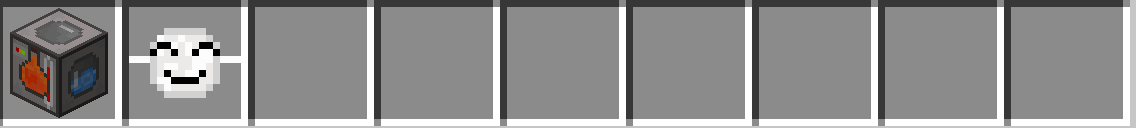
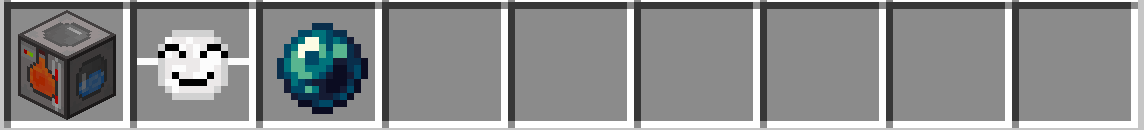
1.0-beta6

Changed region(s): [[0.0, 0.0, 1.0, 1.0]]

diff --git a/src/main/java/partea/partea_expansion/CustomItems/AncientPearl.java b/src/main/java/partea/partea_expansion/CustomItems/AncientPearl.java
@@ -1,0 +1,71 @@
+package partea.partea_expansion.CustomItems;
+
+import net.minecraft.advancement.criterion.Criteria;
+import net.minecraft.block.Blocks;
+import net.minecraft.entity.EyeOfEnderEntity;
+import net.minecraft.entity.player.PlayerEntity;
+import net.minecraft.item.EnderEyeItem;
+import net.minecraft.item.ItemStack;
+import net.minecraft.registry.RegistryKeys;
+import net.minecraft.registry.tag.TagKey;
+import net.minecraft.server.network.ServerPlayerEntity;
+import net.minecraft.server.world.ServerWorld;
+import net.minecraft.sound.SoundCategory;
+import net.minecraft.sound.SoundEvents;
+import net.minecraft.stat.Stats;
+import net.minecraft.util.Hand;
+import net.minecraft.util.Identifier;
+import net.minecraft.util.TypedActionResult;
+import net.minecraft.util.hit.BlockHitResult;
+import net.minecraft.util.hit.HitResult;
+import net.minecraft.util.math.BlockPos;
+import net.minecraft.world.RaycastContext;
+import net.minecraft.world.World;
+import net.minecraft.world.event.GameEvent;
+import net.minecraft.world.gen.structure.Structure;
+
+public class AncientPearl extends EnderEyeItem {
+    private static TagKey<Structure> of() {
+        return TagKey.of(RegistryKeys.STRUCTURE, new Identifier("ancient_city"));
+    }
+    TagKey<Structure> ANCIENT_CITY = of();
+    public AncientPearl(Settings settings) {
+        super(settings);
+    }
+
+    public TypedActionResult<ItemStack> use(World world, PlayerEntity user, Hand hand) {
+        ItemStack itemStack = user.getStackInHand(hand);
+        BlockHitResult blockHitResult = raycast(world, user, RaycastContext.FluidHandling.NONE);
+        if (blockHitResult.getType() == HitResult.Type.BLOCK && world.getBlockState(blockHitResult.getBlockPos()).isOf(Blocks.REINFORCED_DEEPSLATE)) {
+            return TypedActionResult.pass(itemStack);
+        } else {
+            user.setCurrentHand(hand);
+            if (world instanceof ServerWorld) {
+                ServerWorld serverWorld = (ServerWorld)world;
+                BlockPos blockPos = serverWorld.locateStructure(ANCIENT_CITY, user.getBlockPos(), 100, false);
+                if (blockPos != null) {
+                    EyeOfEnderEntity eyeOfEnderEntity = new EyeOfEnderEntity(world, user.getX(), user.getBodyY(0.5), user.getZ());
+                    eyeOfEnderEntity.setItem(itemStack);
+                    eyeOfEnderEntity.initTargetPos(blockPos);
+                    world.emitGameEvent(GameEvent.PROJECTILE_SHOOT, eyeOfEnderEntity.getPos(), GameEvent.Emitter.of(user));
+                    world.spawnEntity(eyeOfEnderEntity);
+                    if (user instanceof ServerPlayerEntity) {
+                        Criteria.USED_ENDER_EYE.trigger((ServerPlayerEntity)user, blockPos);
+                    }
+
+                    world.playSound((PlayerEntity)null, user.getX(), user.getY(), user.getZ(), SoundEvents.ENTITY_ENDER_EYE_LAUNCH, SoundCategory.NEUTRAL, 0.5F, 0.4F / (world.getRandom().nextFloat() * 0.4F + 0.8F));
+                    world.syncWorldEvent((PlayerEntity)null, 1003, user.getBlockPos(), 0);
+                    if (!user.getAbilities().creativeMode) {
+                        itemStack.decrement(1);
+                    }
+
+                    user.incrementStat(Stats.USED.getOrCreateStat(this));
+                    user.swingHand(hand, true);
+                    return TypedActionResult.success(itemStack);
+                }
+            }
+
+            return TypedActionResult.consume(itemStack);
+        }
+    }
+}

diff --git a/src/main/java/partea/partea_expansion/CustomBlocks/entity/QualitativeAnalyzerBlockEntity.java b/src/main/java/partea/partea_expansion/CustomBlocks/entity/QualitativeAnalyzerBlockEntity.java
@@ -19,7 +19,6 @@ import net.minecraft.util.collection.DefaultedList;
 import net.minecraft.util.math.BlockPos;
 import net.minecraft.world.World;
 import org.jetbrains.annotations.Nullable;
-import partea.partea_expansion.CustomItems.ModArmorMaterial;
 import partea.partea_expansion.ModItems;
 import partea.partea_expansion.screen.QualitativeAnalyzerScreenHandler;
 
@@ -170,6 +169,10 @@ public class QualitativeAnalyzerBlockEntity extends BlockEntity implements Exten
                 || getStack(INPUT_SLOT).getItem() == Items.CHARCOAL){
             result = new ItemStack(Items.GLOWSTONE_DUST);
         }
+        if (getStack(INPUT_SLOT).getItem() == Items.ENDER_EYE
+                || getStack(INPUT_SLOT).getItem() == Items.ENDER_PEARL){
+            result = new ItemStack(ModItems.ANCIENT_PEARL);
+        }
         this.removeStack(INPUT_SLOT,1);
         this.removeStack(E_SLOT,1);
         this.setStack(OUTPUT_SLOT, new ItemStack(result.getItem(), getStack(OUTPUT_SLOT).getCount() + result.getCount()));
@@ -238,6 +241,11 @@ public class QualitativeAnalyzerBlockEntity extends BlockEntity implements Exten
                 || getStack(INPUT_SLOT).getItem() == Items.CHARCOAL){
             result = new ItemStack(Items.GLOWSTONE_DUST);
             return EhasQD() && canInsertAmountIntoOutputSlot(result) && canInsertItemIntoOutputSlot(result.getItem());
+        }
+        if (getStack(INPUT_SLOT).getItem() == Items.ENDER_EYE
+                || getStack(INPUT_SLOT).getItem() == Items.ENDER_PEARL){
+            result = new ItemStack(ModItems.ANCIENT_PEARL);
+            return EhasCOD() && canInsertAmountIntoOutputSlot(result) && canInsertItemIntoOutputSlot(result.getItem());
         }
 
 

diff --git a/src/main/java/partea/partea_expansion/mixin/enchantments/PulseMixin.java b/src/main/java/partea/partea_expansion/mixin/enchantments/PulseMixin.java
@@ -10,6 +10,7 @@ import net.minecraft.item.ItemStack;
 import net.minecraft.particle.ParticleTypes;
 import net.minecraft.predicate.entity.EntityPredicates;
 import net.minecraft.server.world.ServerWorld;
+import net.minecraft.sound.SoundCategory;
 import net.minecraft.sound.SoundEvents;
 import net.minecraft.util.Hand;
 import net.minecraft.util.math.MathHelper;
@@ -46,7 +47,10 @@ public abstract class PulseMixin {
 
                     for(int i = 1; i < MathHelper.floor(vec3d2.length()) + 7; ++i) {
                         Vec3d vec3d4 = vec3d.add(vec3d3.multiply(i));
-                        if (world instanceof ServerWorld sw) sw.spawnParticles(ParticleTypes.SONIC_BOOM, vec3d4.x, vec3d4.y, vec3d4.z, 1, 0.0D, 0.0D, 0.0D, 0.0D);
+                        if (world instanceof ServerWorld sw) {
+                            sw.spawnParticles(ParticleTypes.SONIC_BOOM, vec3d4.x, vec3d4.y, vec3d4.z, 1, 0.0D, 0.0D, 0.0D, 0.0D);
+                            world.playSound(null, entity.getBlockPos(), SoundEvents.ENTITY_WARDEN_SONIC_BOOM, SoundCategory.PLAYERS, 1.0f, 1f);
+                        }
                     }
 
                     entity.playSound(SoundEvents.ENTITY_WARDEN_SONIC_BOOM, 3.0F, 1.0F);

diff --git a/src/main/java/partea/partea_expansion/ModTab.java b/src/main/java/partea/partea_expansion/ModTab.java
@@ -1,21 +1,16 @@
 package partea.partea_expansion;
 
 import net.fabricmc.fabric.api.itemgroup.v1.FabricItemGroup;
-import net.fabricmc.fabric.api.itemgroup.v1.ItemGroupEvents;
 import net.minecraft.item.ItemGroup;
-import net.minecraft.item.ItemGroups;
 import net.minecraft.item.ItemStack;
-import net.minecraft.potion.Potions;
 import net.minecraft.registry.Registries;
 import net.minecraft.registry.Registry;
 import net.minecraft.text.Text;
 import net.minecraft.util.Identifier;
-import partea.partea_expansion.CustomItems.SafeminingDetectorItem;
-import partea.partea_expansion.Plugins.interactic.ItemFilterItem;
 
 import static partea.partea_expansion.ModItems.*;
 import static partea.partea_expansion.Modblocks.*;
-import static partea.partea_expansion.ParteaExpansion.*;
+import static partea.partea_expansion.ParteaExpansion.ITEM_FILTER;
 
 public class ModTab {
     public static final ItemGroup PARTEA_EXPANSION = FabricItemGroup.builder()
@@ -78,6 +73,7 @@ public class ModTab {
                 entries.add(QUALITATIVE_ANALYZER);
 
                 entries.add(FOOLS_MASK);;
+                entries.add(ANCIENT_PEARL);;
 
             })
             .build();

diff --git a/src/main/java/partea/partea_expansion/ModItems.java b/src/main/java/partea/partea_expansion/ModItems.java
@@ -16,6 +16,8 @@ import partea.partea_expansion.sounds.ModSounds;
 import static partea.partea_expansion.CustomItems.ModArmorMaterial.GOLDEN_NETHERITE;
 
 public class ModItems {
+    public static Item ANCIENT_PEARL = registerItem("ancient_pearl"
+            , new AncientPearl(new FabricItemSettings().rarity(Rarity.UNCOMMON).maxCount(16)));
     public static Item FABRIC = registerItem("fabric"
             , new Item(new FabricItemSettings().rarity(Rarity.COMMON)));
     public static Item QUARTZ_DUST = registerItem("quartz_dust"
@@ -122,7 +124,7 @@ public class ModItems {
     public static Item DIAMOND_PROSPECTOR = registerItem("diamond_prospector"
             , new DiamondProspectorItem(new FabricItemSettings().maxDamage(96)));
     public static Item SAFEMINING_DETECTOR = registerItem("safemining_detector"
-            , new SafeminingDetectorItem(new FabricItemSettings().maxDamage(96)));
+            , new SafeminingDetectorItem(new FabricItemSettings().maxDamage(198)));
     public static Item EMPTY_TERMINAL = registerItem("empty_terminal"
             , new Item(new FabricItemSettings()));
 

diff --git a/src/main/java/partea/partea_expansion/Enchantments/EnchantRegister.java b/src/main/java/partea/partea_expansion/Enchantments/EnchantRegister.java
@@ -27,7 +27,7 @@ public class EnchantRegister {
         Registry.register(Registries.ENCHANTMENT
                 , new Identifier("partea_expansion", "nocturnal"), EnchantNocturnal.NOCTURNAL);
         Registry.register(Registries.ENCHANTMENT
-                , new Identifier("partea_expansion", "pulse"), EnchantPulse.PULSE);
+                , new Identifier("partea_expansion", "deep_dark_fantasy"), EnchantPulse.PULSE);
         Registry.register(Registries.ENCHANTMENT
                 , new Identifier("partea_expansion", "rise"), EnchantRise.RISE);
         Registry.register(Registries.ENCHANTMENT
@@ -41,6 +41,6 @@ public class EnchantRegister {
         Registry.register(Registries.ENCHANTMENT
                 , new Identifier("partea_expansion", "raider"), EnchantRaider.RAIDER);
         Registry.register(Registries.ENCHANTMENT
-                , new Identifier("partea_expansion", "dual_leap"), EnchantDualLeap.DUAKLEAP);
+                , new Identifier("partea_expansion", "dual_leap"), EnchantDualLeap.DUAL_LEAP);
     }
 }

diff --git a/src/main/java/partea/partea_expansion/Enchantments/EnchantPyromania.java b/src/main/java/partea/partea_expansion/Enchantments/EnchantPyromania.java
@@ -2,7 +2,6 @@ package partea.partea_expansion.Enchantments;
 
 import net.minecraft.enchantment.Enchantment;
 import net.minecraft.enchantment.EnchantmentTarget;
-import net.minecraft.enchantment.Enchantments;
 import net.minecraft.entity.Entity;
 import net.minecraft.entity.EquipmentSlot;
 import net.minecraft.entity.LivingEntity;
@@ -22,7 +21,7 @@ public class EnchantPyromania extends Enchantment {
     }
 
     public int getMaxLevel() {
-        return 2;
+        return 3;
     }
     public boolean isTreasure() {
         return true;
@@ -36,7 +35,7 @@ public class EnchantPyromania extends Enchantment {
     @Override
     public void onTargetDamaged(LivingEntity user, Entity target, int level) {
         if(target instanceof LivingEntity && target.isOnFire()) {
-            target.damage(user.getDamageSources().mobAttack(user), level*2 + 1);
+            target.damage(user.getDamageSources().mobAttack(user), level*4 + 2);
         }
 
         super.onTargetDamaged(user, target, level);

diff --git a/src/main/java/partea/partea_expansion/datagen/ModModelsProvider.java b/src/main/java/partea/partea_expansion/datagen/ModModelsProvider.java
@@ -2,7 +2,6 @@ package partea.partea_expansion.datagen;
 
 import net.fabricmc.fabric.api.datagen.v1.FabricDataOutput;
 import net.fabricmc.fabric.api.datagen.v1.provider.FabricModelProvider;
-import net.minecraft.block.Blocks;
 import net.minecraft.data.client.BlockStateModelGenerator;
 import net.minecraft.data.client.ItemModelGenerator;
 import net.minecraft.data.client.Models;
@@ -52,6 +51,7 @@ public class ModModelsProvider extends FabricModelProvider {
         itemModelGenerator.register(ModItems.CRYING_OBSIDIAN_DUST, Models.GENERATED);
         itemModelGenerator.register(ModItems.QUARTZ_DUST, Models.GENERATED);
         itemModelGenerator.register(ModItems.FABRIC, Models.GENERATED);
+        itemModelGenerator.register(ModItems.ANCIENT_PEARL, Models.GENERATED);
 
         itemModelGenerator.registerArmor((ArmorItem) ModItems.FOOLS_MASK);
         itemModelGenerator.registerArmor((ArmorItem) ModItems.DIAMOND_NETHERITE_HELMET);

diff --git a/src/main/java/partea/partea_expansion/Enchantments/EnchantDualLeap.java b/src/main/java/partea/partea_expansion/Enchantments/EnchantDualLeap.java
@@ -5,7 +5,7 @@ import net.minecraft.enchantment.EnchantmentTarget;
 import net.minecraft.entity.EquipmentSlot;
 
 public class EnchantDualLeap extends Enchantment {
-    public static Enchantment DUAKLEAP = new EnchantDualLeap();
+    public static Enchantment DUAL_LEAP = new EnchantDualLeap();
     public EnchantDualLeap() {
         super(Enchantment.Rarity.RARE, EnchantmentTarget.ARMOR_FEET, new EquipmentSlot[]{EquipmentSlot.FEET});
     }
@@ -19,12 +19,13 @@ public class EnchantDualLeap extends Enchantment {
     public int getMaxLevel() {
         return 1;
     }
-    public boolean isTreasure(){
-        return true;
-    }
 
     @Override
     protected boolean canAccept(Enchantment other) {
         return super.canAccept(other);
+    }
+
+    public boolean isTreasure(){
+        return true;
     }
 }

diff --git a/src/main/java/partea/partea_expansion/mixin/ClientPlayerEntityMixin.java b/src/main/java/partea/partea_expansion/mixin/ClientPlayerEntityMixin.java
@@ -24,10 +24,10 @@ public class ClientPlayerEntityMixin {
     @Inject(method = "tickMovement", at = @At("HEAD"))
     private void tickMovement(CallbackInfo info) {
         ClientPlayerEntity player = (ClientPlayerEntity) (Object) this;
-
+        
         // Dual Leap
         if (player.isOnGround() || player.isClimbing()) {
-            jumpCount = EnchantmentHelper.getEquipmentLevel(EnchantDualLeap.DUAKLEAP, player);
+            jumpCount = EnchantmentHelper.getEquipmentLevel(EnchantDualLeap.DUAL_LEAP, player);
         } else if (!jumpedLastTick && jumpCount > 0 && player.getVelocity().y < 0) {
             if (player.input.jumping && canJump(player)) {
                 jumpCount--;

diff --git a/src/main/java/partea/partea_expansion/Enchantments/EnchantRaider.java b/src/main/java/partea/partea_expansion/Enchantments/EnchantRaider.java
@@ -41,7 +41,7 @@ public class EnchantRaider extends Enchantment {
         World world = user.getEntityWorld();
         if (target instanceof LivingEntity livingEntity) {
             if (livingEntity.getGroup() == EntityGroup.ILLAGER) {
-                target.damage(world.getDamageSources().generic(), (float) level * 1.5F);
+                target.damage(world.getDamageSources().generic(), (float) level * 3F);
             }
         } else {
             super.onTargetDamaged(user, target, level);

diff --git a/src/main/java/partea/partea_expansion/Enchantments/EnchantLifeSteal.java b/src/main/java/partea/partea_expansion/Enchantments/EnchantLifeSteal.java
@@ -37,7 +37,7 @@ public class EnchantLifeSteal extends Enchantment {
                 float targetHealth = ((LivingEntity) target).getHealth();
                 if (targetHealth > 0) {
                     world.playSound(null, user.getBlockPos(), ModSounds.BLURP, SoundCategory.PLAYERS, 1.0f, 1f);
-                    user.heal(user.getMaxHealth() * 0.2f);
+                    user.heal(user.getMaxHealth() * 0.15f);
                 }
             }
         }
